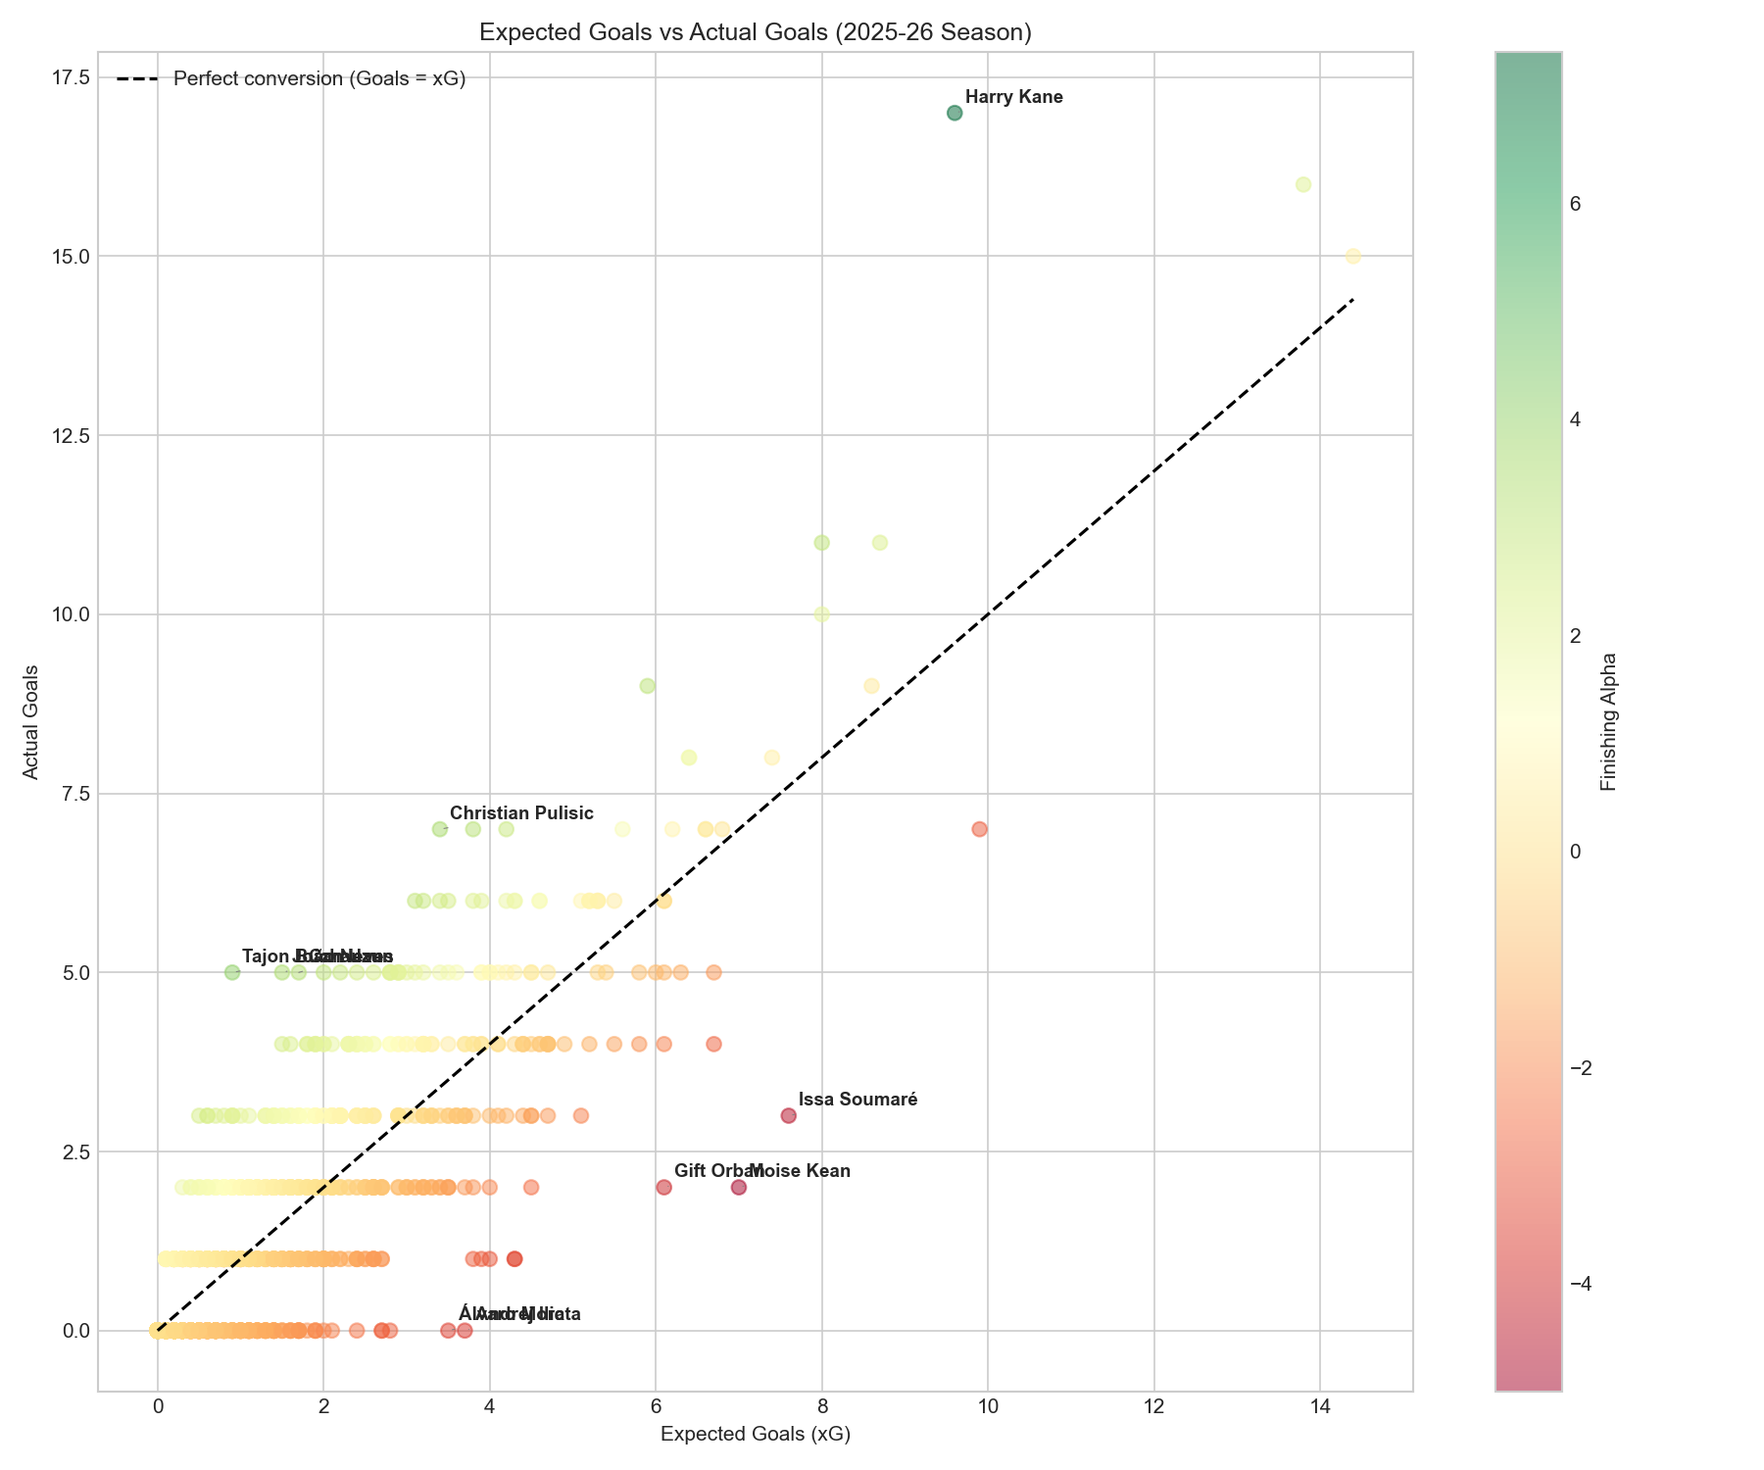
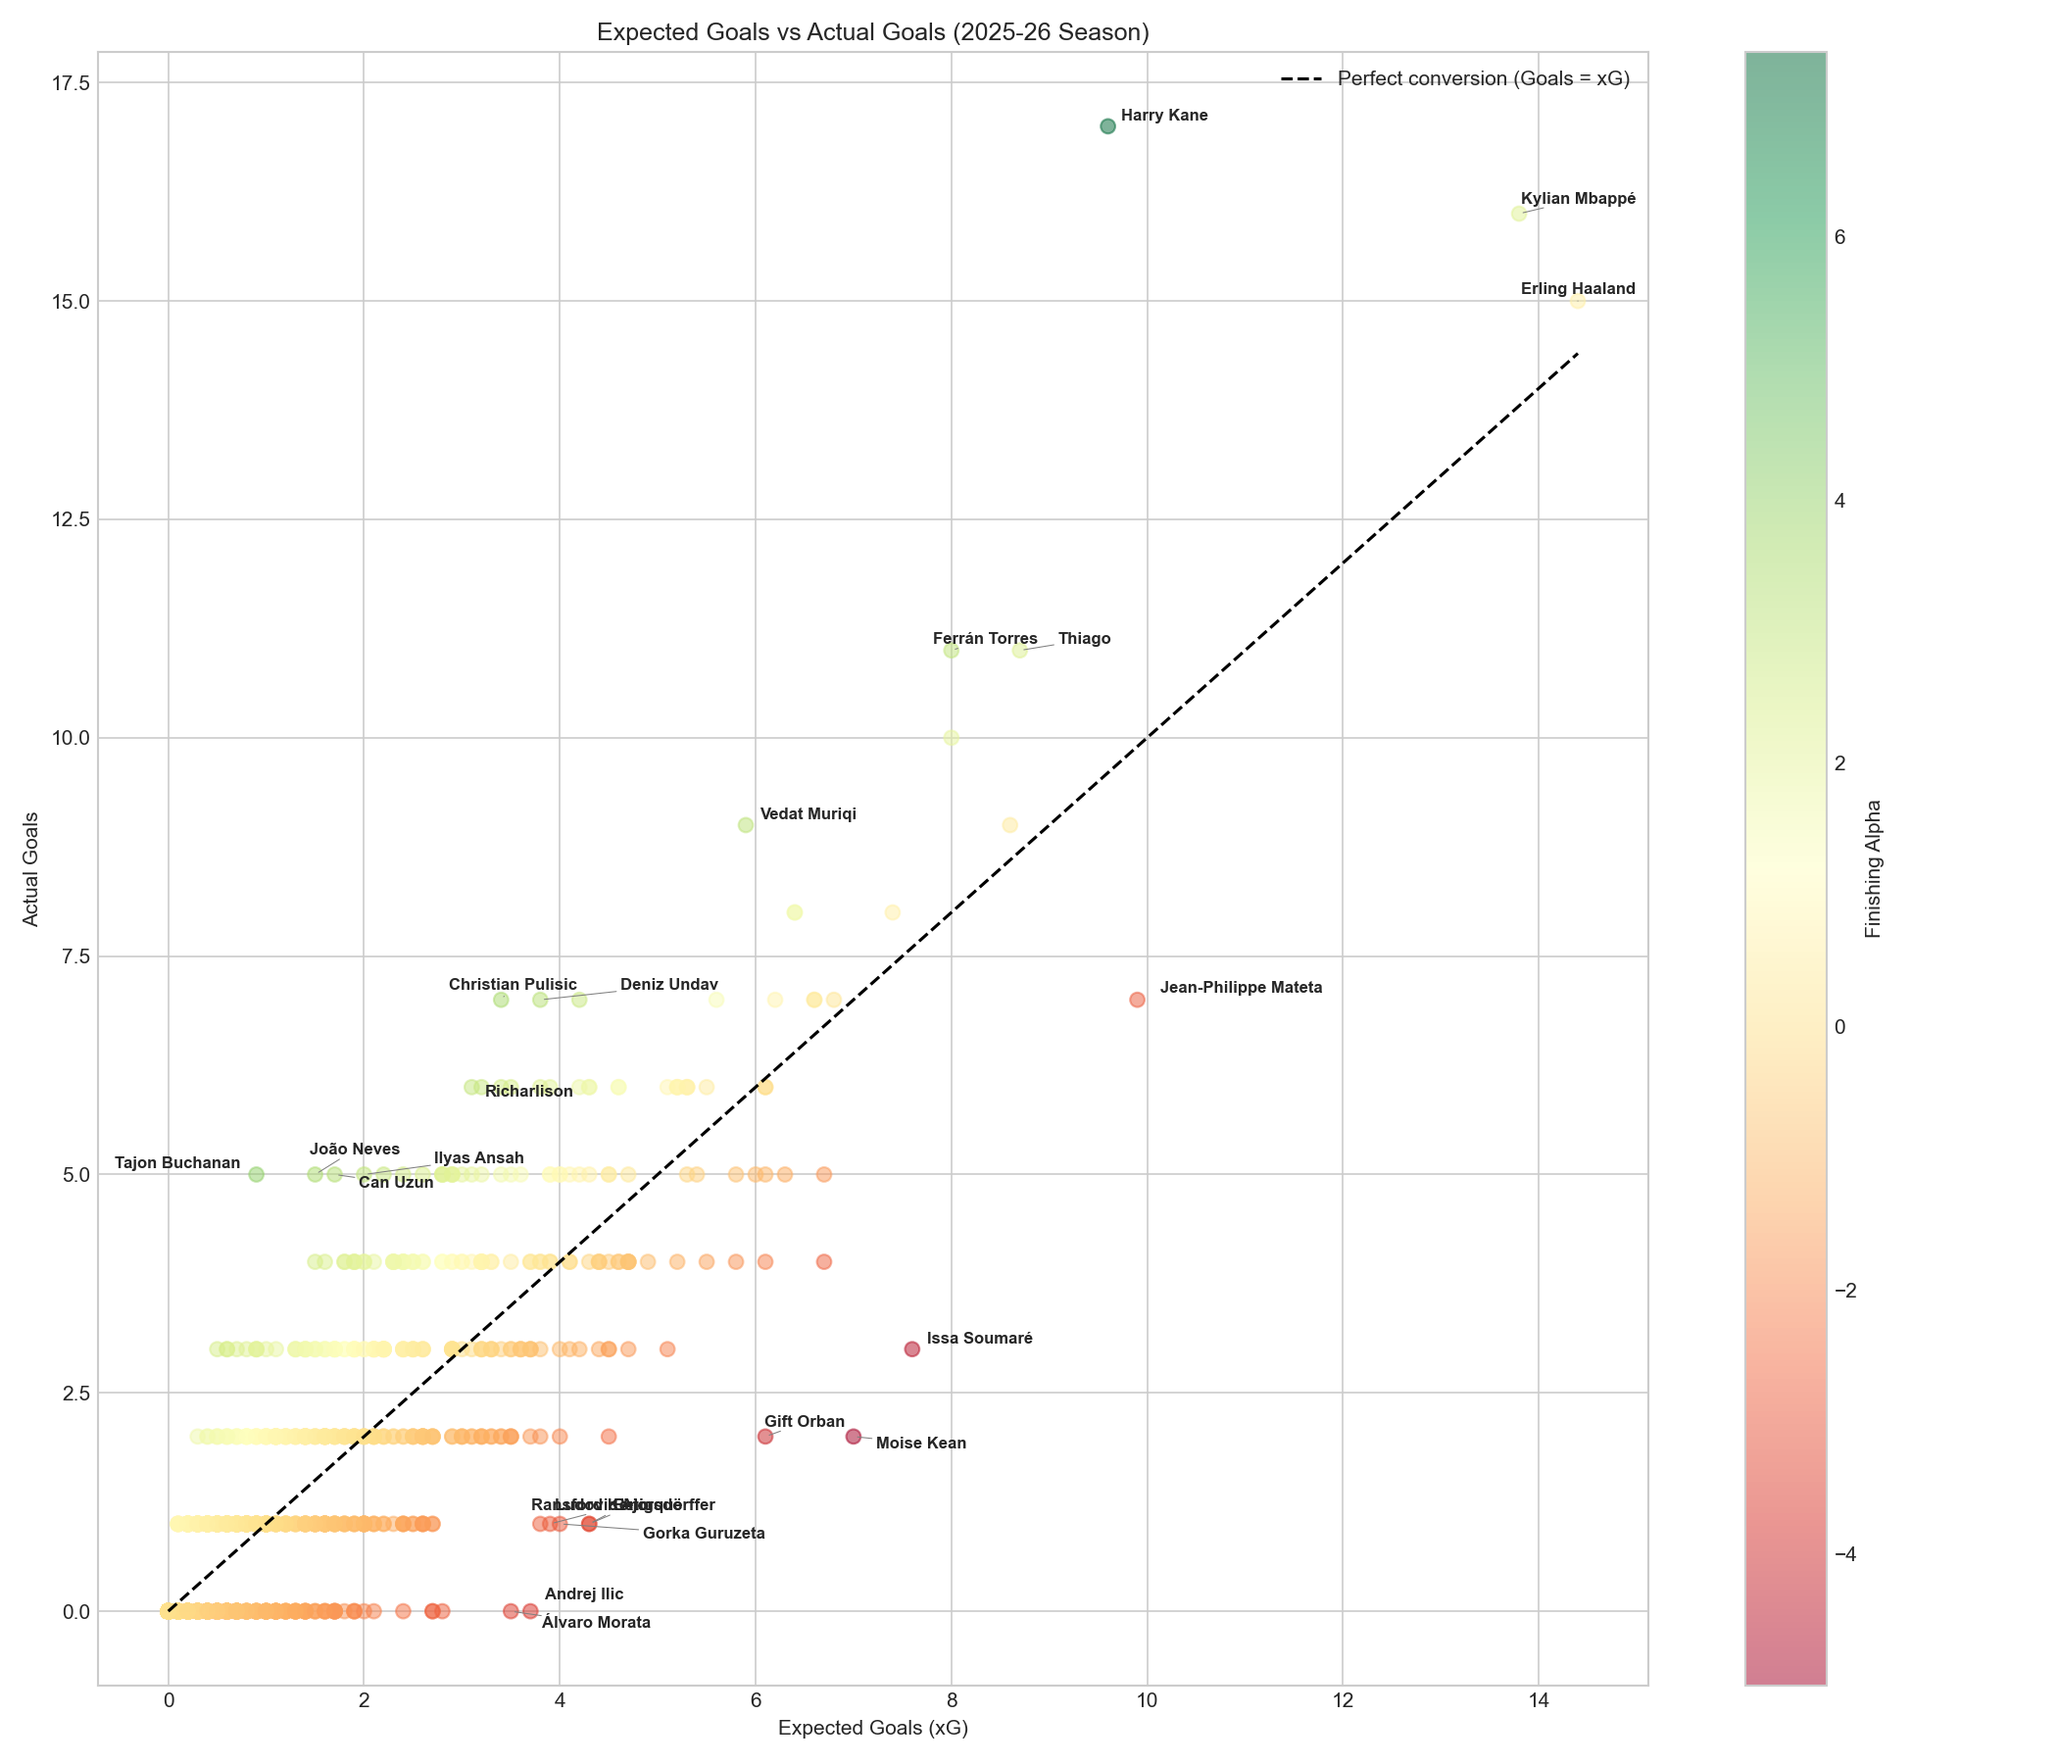
Add more visualizations with adjustText for better labeling

diff --git a/src/visualization.py b/src/visualization.py
@@ -1,6 +1,8 @@
 import matplotlib.pyplot as plt
 import pandas as pd
+import seaborn as sns
 import os
+from adjustText import adjust_text
 from analysis import get_data
 
 
@@ -49,26 +51,22 @@ def create_visualizations(df):
     print("✅ Saved: 02_worst_finishers.png")
 
     # 3. xG vs Actual Goals Scatter with player labels
-    plt.figure(figsize=(12, 10))
+    plt.figure(figsize=(14, 12))
     plt.scatter(df['xg'], df['gls'], alpha=0.5, c=df['finishing_alpha'], cmap='RdYlGn', s=50)
     plt.colorbar(label='Finishing Alpha')
     plt.plot([0, df['xg'].max()], [0, df['xg'].max()], 'k--', label='Perfect conversion (Goals = xG)')
 
-    # Label outliers (top overperformers and underperformers)
-    top_outliers = df.nlargest(5, 'finishing_alpha')
-    worst_outliers = df.nsmallest(5, 'finishing_alpha')
-    outliers = pd.concat([top_outliers, worst_outliers])
+    # Label more outliers (top 10 and worst 10)
+    top_outliers = df.nlargest(10, 'finishing_alpha')
+    worst_outliers = df.nsmallest(10, 'finishing_alpha')
+    top_scorers = df.nlargest(5, 'gls')
+    outliers = pd.concat([top_outliers, worst_outliers, top_scorers]).drop_duplicates(subset='player')
 
+    texts = []
     for _, row in outliers.iterrows():
-        plt.annotate(
-            row['player'],
-            xy=(row['xg'], row['gls']),
-            xytext=(5, 5),
-            textcoords='offset points',
-            fontsize=9,
-            fontweight='bold',
-            arrowprops=dict(arrowstyle='-', color='gray', lw=0.5)
-        )
+        texts.append(plt.text(row['xg'], row['gls'], row['player'], fontsize=8, fontweight='bold'))
+
+    adjust_text(texts, arrowprops=dict(arrowstyle='-', color='gray', lw=0.5))
 
     plt.xlabel('Expected Goals (xG)')
     plt.ylabel('Actual Goals')
@@ -112,26 +110,22 @@ def create_visualizations(df):
     print("✅ Saved: 05_top_scorers.png")
 
     # 6. Assists vs xAG Scatter (Playmaking Analysis)
-    plt.figure(figsize=(12, 10))
+    plt.figure(figsize=(14, 12))
     plt.scatter(df['xag'], df['ast'], alpha=0.5, c=df['playmaking_alpha'], cmap='RdYlGn', s=50)
     plt.colorbar(label='Playmaking Alpha')
     plt.plot([0, df['xag'].max()], [0, df['xag'].max()], 'k--', label='Perfect conversion (Ast = xAG)')
 
-    # Label outliers
-    top_playmakers = df.nlargest(5, 'playmaking_alpha')
-    worst_playmakers = df.nsmallest(5, 'playmaking_alpha')
-    outliers = pd.concat([top_playmakers, worst_playmakers])
+    # Label more outliers (top 10 and worst 10)
+    top_playmakers = df.nlargest(10, 'playmaking_alpha')
+    worst_playmakers = df.nsmallest(10, 'playmaking_alpha')
+    top_assisters = df.nlargest(5, 'ast')
+    outliers = pd.concat([top_playmakers, worst_playmakers, top_assisters]).drop_duplicates(subset='player')
 
+    texts = []
     for _, row in outliers.iterrows():
-        plt.annotate(
-            row['player'],
-            xy=(row['xag'], row['ast']),
-            xytext=(5, 5),
-            textcoords='offset points',
-            fontsize=9,
-            fontweight='bold',
-            arrowprops=dict(arrowstyle='-', color='gray', lw=0.5)
-        )
+        texts.append(plt.text(row['xag'], row['ast'], row['player'], fontsize=8, fontweight='bold'))
+
+    adjust_text(texts, arrowprops=dict(arrowstyle='-', color='gray', lw=0.5))
 
     plt.xlabel('Expected Assists (xAG)')
     plt.ylabel('Actual Assists')
@@ -208,6 +202,27 @@ def create_visualizations(df):
     plt.savefig('outputs/charts/09_worst_teams.png', dpi=150)
     plt.close()
     print("✅ Saved: 09_worst_teams.png")
+
+    # 10. Minutes vs Goals
+    plt.figure(figsize=(12, 10))
+    plt.scatter(df['min'], df['gls'], alpha=0.5, c=df['gls_per90'], cmap='YlOrRd', s=50)
+    plt.colorbar(label='Goals per 90')
+
+    # Label top scorers
+    top_scorers = df.nlargest(10, 'gls')
+    texts = []
+    for _, row in top_scorers.iterrows():
+        texts.append(plt.text(row['min'], row['gls'], row['player'], fontsize=8, fontweight='bold'))
+
+    adjust_text(texts, arrowprops=dict(arrowstyle='-', color='gray', lw=0.5))
+
+    plt.xlabel('Minutes Played')
+    plt.ylabel('Goals')
+    plt.title('Minutes Played vs Goals Scored')
+    plt.tight_layout()
+    plt.savefig('outputs/charts/10_minutes_vs_goals.png', dpi=150)
+    plt.close()
+    print("✅ Saved: 10_minutes_vs_goals.png")
 
     print("\n All visualizations saved to outputs/charts/")
 
